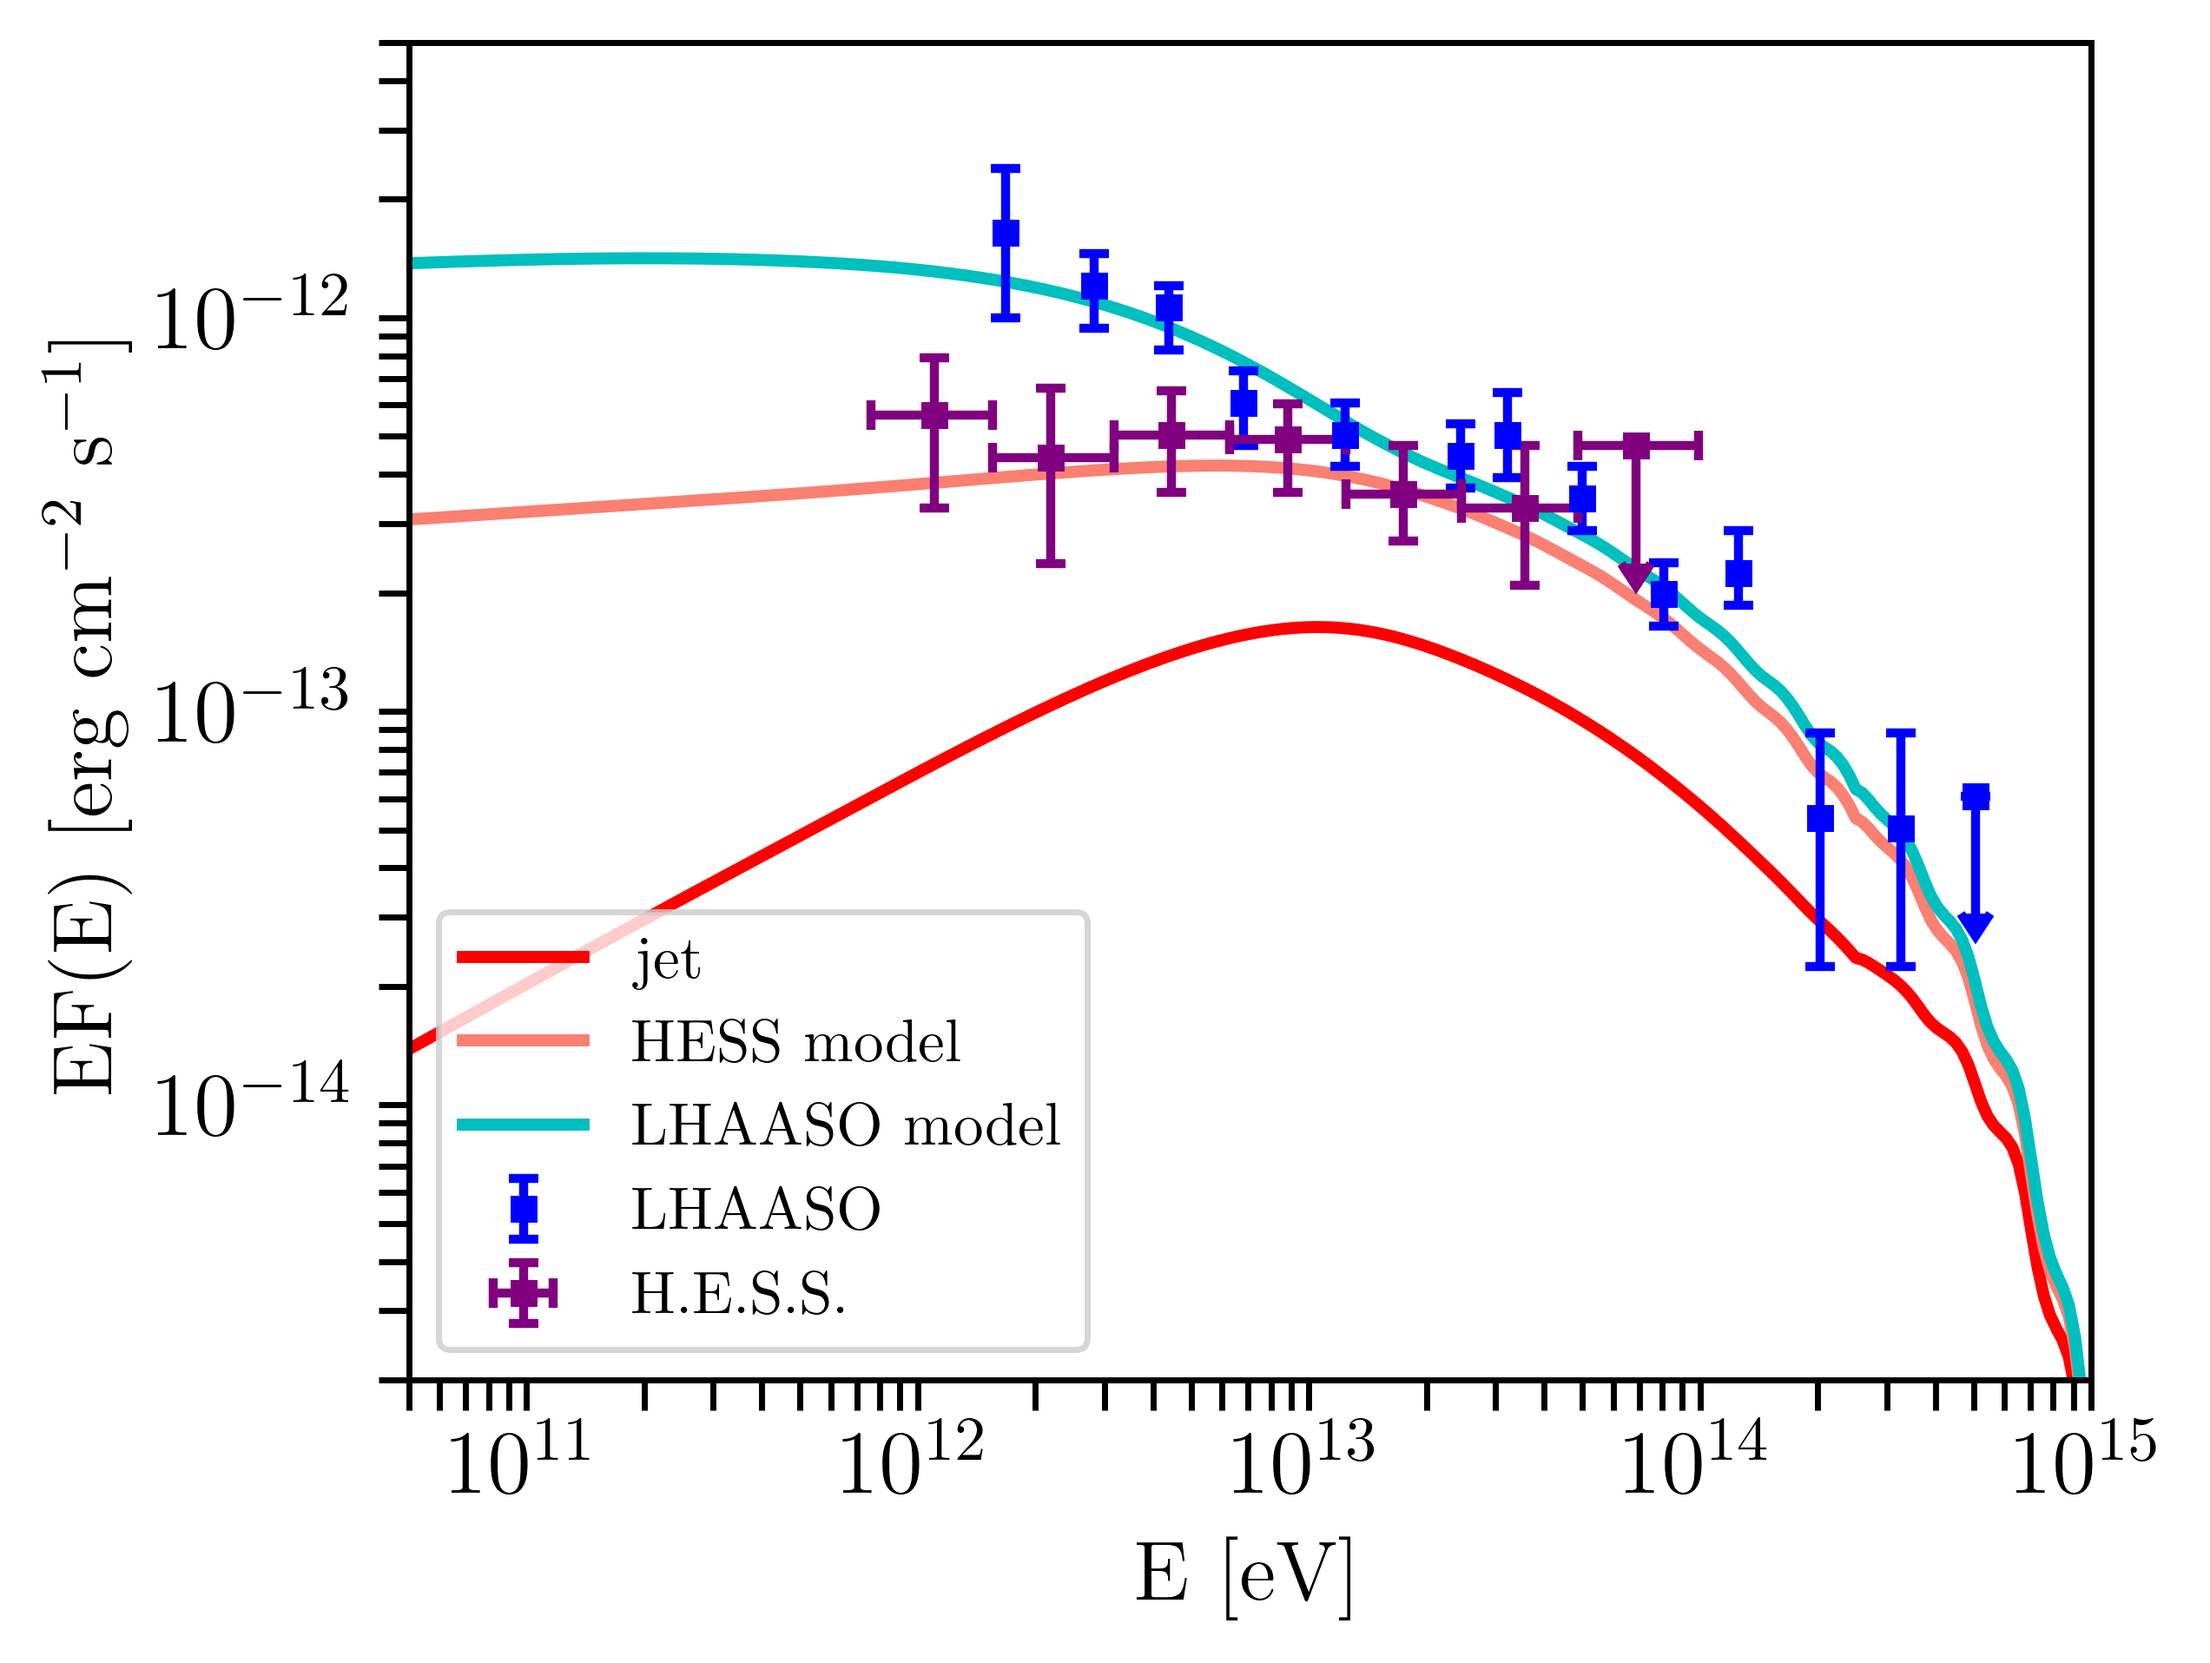
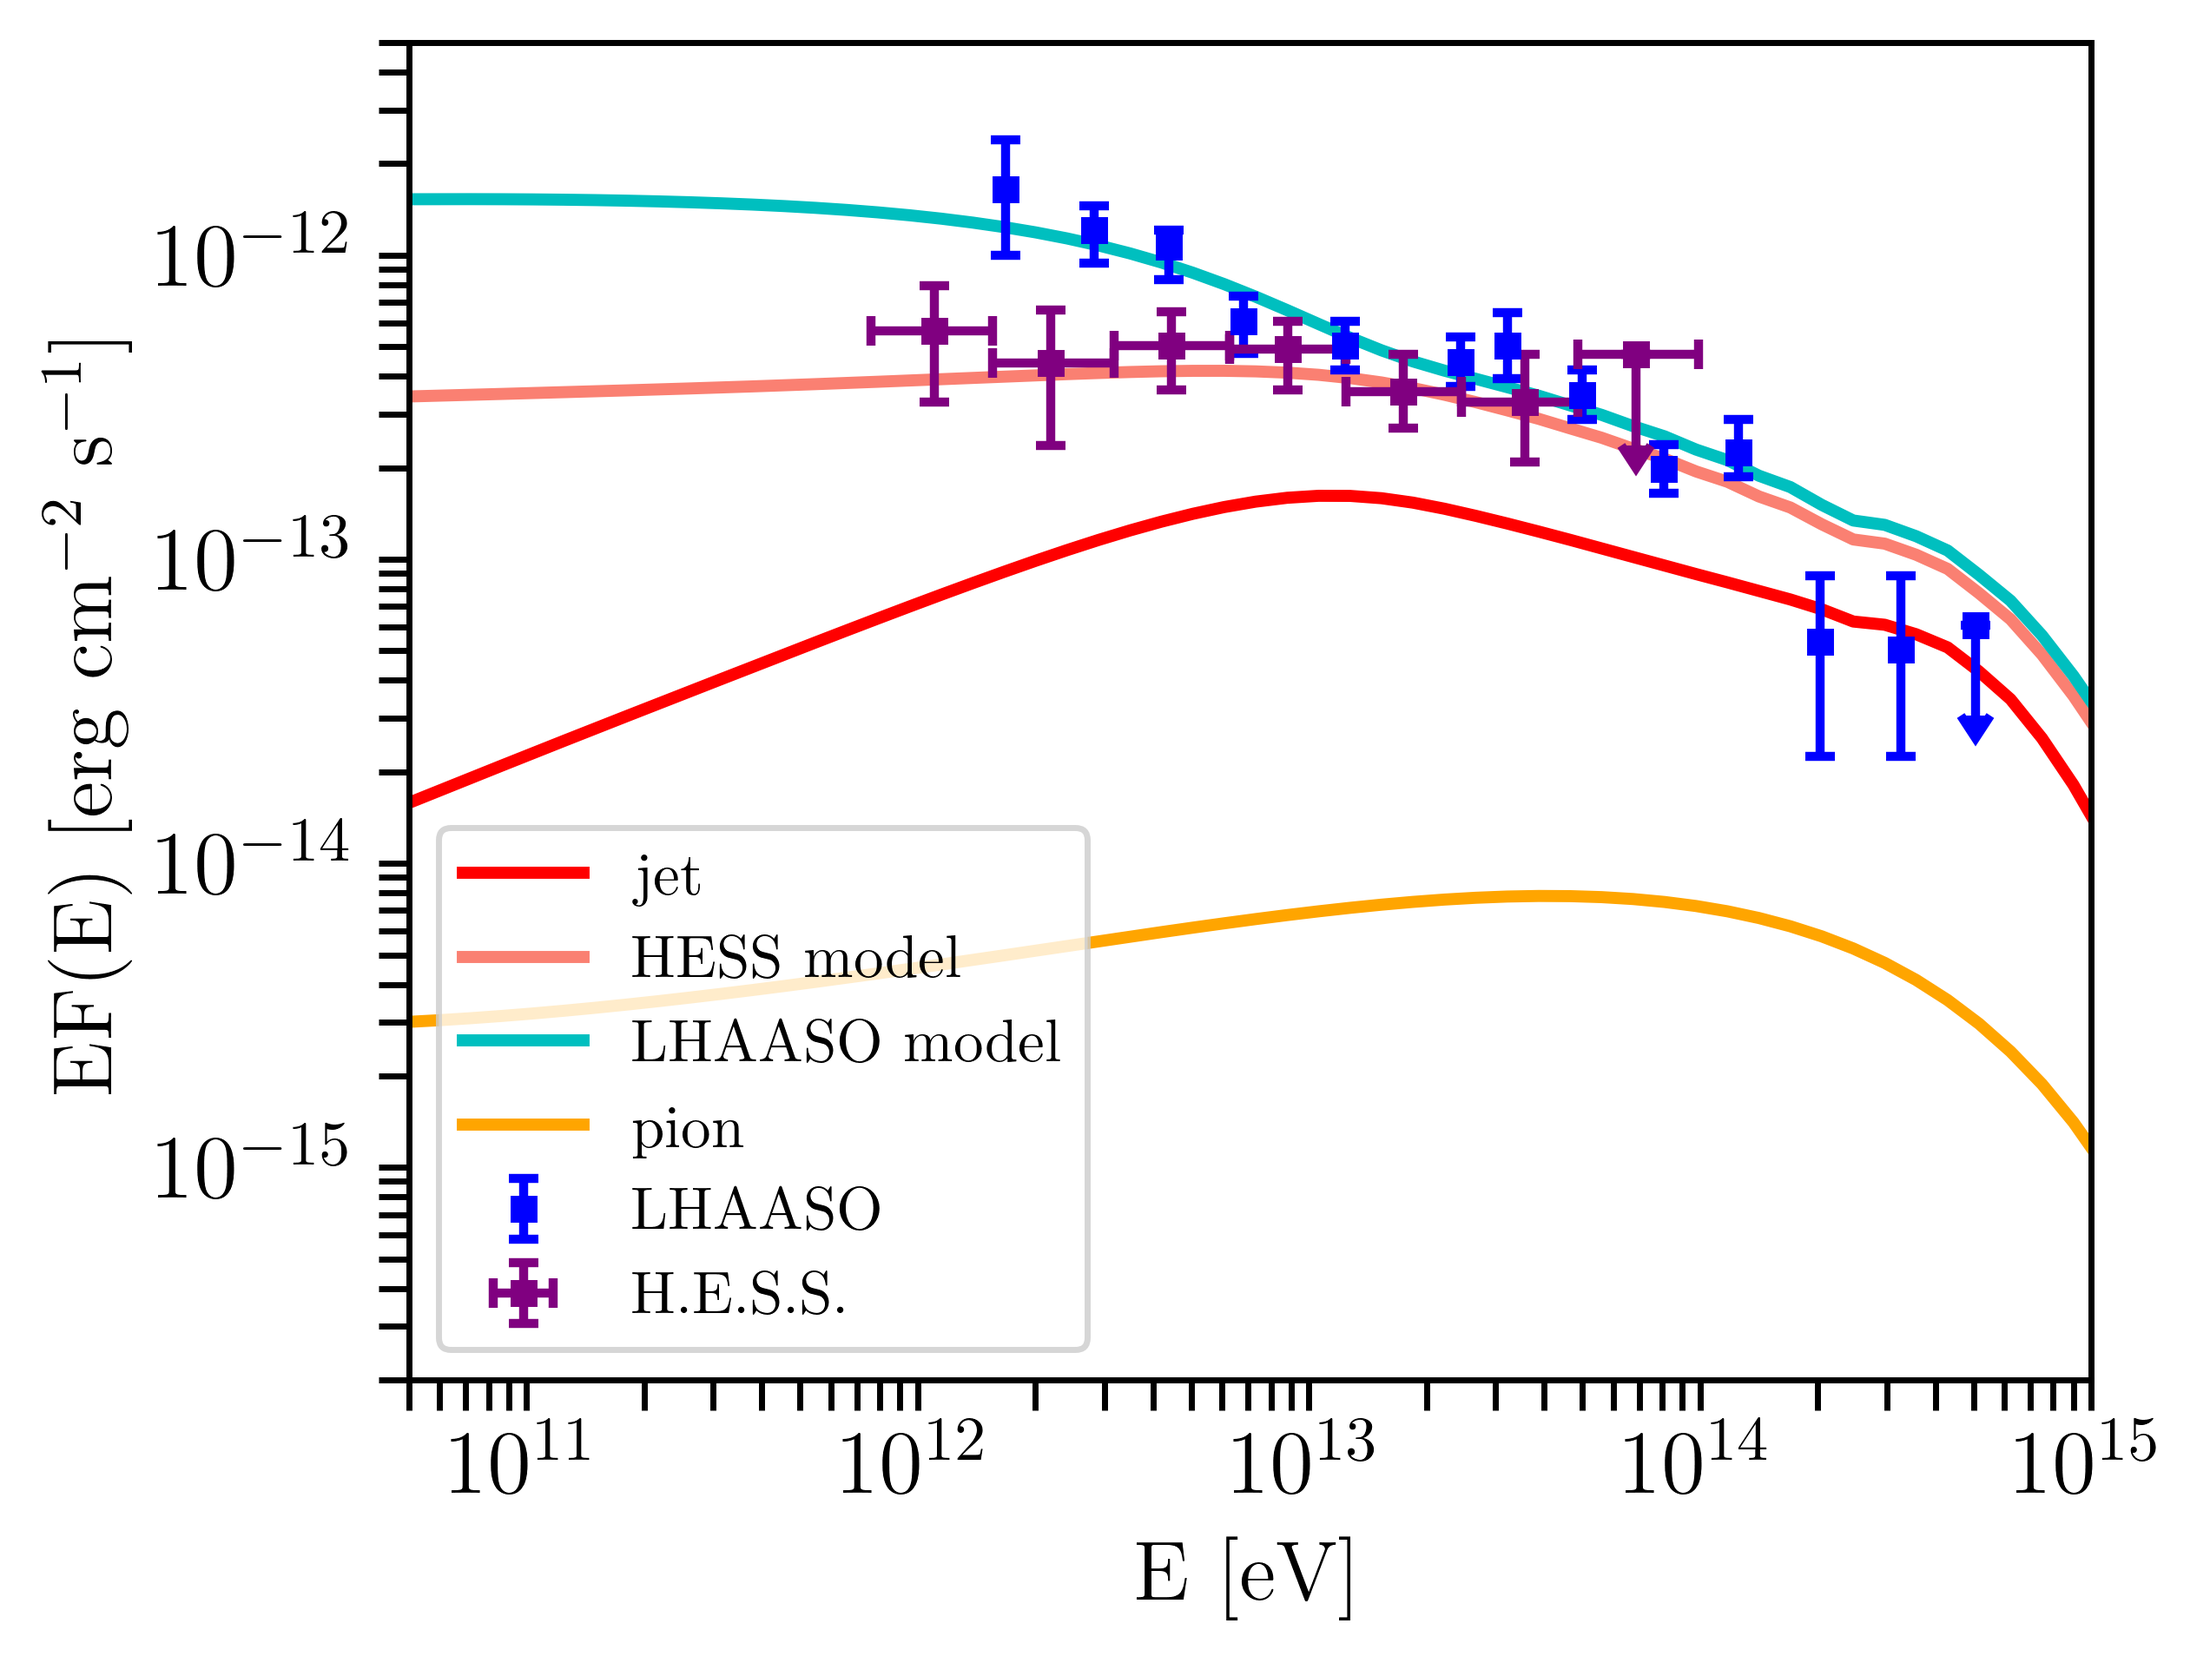
pions disser

diff --git a/disser/part2.tex b/disser/part2.tex
@@ -160,6 +160,8 @@
 
 Для объяснения подъема на низкоэнергичной части спектра LHAASO предположим, что электроны, полностью прошедшие вдоль джета и потерявшие значительную часть энергии на синхротронное излучение, в конце концов тоже попадают в кокон и свободно диффундируют в нем, так же излучая обратным комптоновским рассеянием в режиме толстой мишени. Сумарный спектр трех компонент даст голубую кривую на рисунке \ref{compton}, хорошо совпадающую с данными LHAASO. Предположении о наличии большего числа электронов, видимых LHAASO чем HESS, косвенно подтверждается большими размерами областей со значимым сигналом, которые видит LHAASO.
 
+Так же были проведены расчеты гамма излучения за счет распада пионов, рождающихся в результате p-p столкновений. Для оценки мы считали, что все протоны, ускоренные ударной волной за время жизни источника остаются внутри его объема и распределяются равномерно. Полученный спектр излучения изображен оранжевой кривой на рисунке \ref{compton}. Видно, что барионный механизм излучения не может обеспечить наблюдаемый уровень высокоэнергичного излучения при концентрациях, слудующих из гидродинамической модели туманности W50.
+
 \section{Выводы} \label{SS433conclision}
 
 

diff --git a/disser/dissertation.tex b/disser/dissertation.tex
@@ -39,6 +39,7 @@
 \input{title}			% Титульный лист
 \input{contents}		% Оглавление
 \input{introduction}	% Введение
+\input{part0}	        % Глава 0. Particle in Cell
 \input{part1}			% Глава 1. Моделирование излучения FBOT.
 \input{part2}			% Глава 2. SS433
 %\input{part3}			% Глава 3. IPN локализация коротких всплесков.

diff --git a/disser/part0.tex b/disser/part0.tex
@@ -1,0 +1,15 @@
+\chapter{Particle-in-Cell моделирование транс-релятивистских ударных волн}\label{PIC}
+\section{Введение}
+
+\FloatBarrier
+\section{Выводы}
+ 
+
+Получены следующие результаты:
+\begin{enumerate}
+\item 
+\item 
+\end{enumerate}
+
+
+\clearpage
